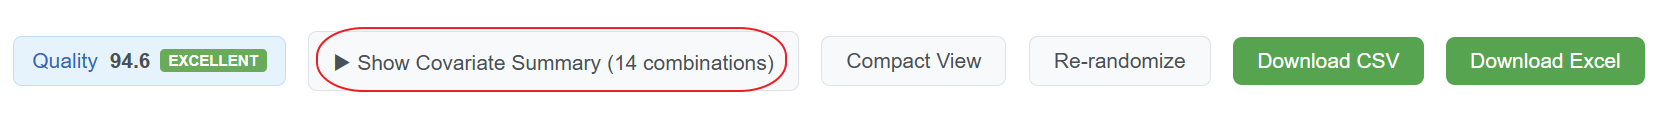
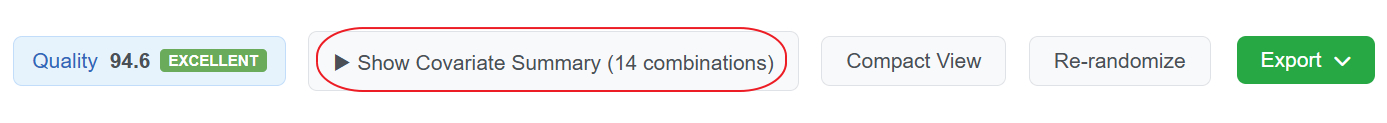
- Updated documentation and screenshot (new "Export" menu button) - Indicate if a file loaded is a layout file - Display app version

diff --git a/src/components/ConfigurationForm.tsx b/src/components/ConfigurationForm.tsx
@@ -4,6 +4,7 @@ import { RandomizationAlgorithm, getAlgorithmName, getAlgorithmDescription, getA
 interface ConfigurationFormProps {
   availableColumns: string[];
   selectedFileName: string;
+  isLayoutFile: boolean;
   selectedIdColumn: string;
   onIdColumnChange: (event: React.ChangeEvent<HTMLSelectElement>) => void;
   searches: any[];
@@ -34,6 +35,7 @@ interface ConfigurationFormProps {
 const ConfigurationForm: React.FC<ConfigurationFormProps> = ({
   availableColumns,
   selectedFileName,
+  isLayoutFile,
   selectedIdColumn,
   onIdColumnChange,
   searches,
@@ -126,8 +128,15 @@ const ConfigurationForm: React.FC<ConfigurationFormProps> = ({
       {/* Uploaded file name, shown above the configuration options */}
       {selectedFileName && (
         <div style={styles.uploadedFileBanner}>
-          <i className="fa-regular fa-file-lines" style={styles.uploadedFileIcon} aria-hidden="true"></i>
+          <i
+            className={isLayoutFile ? 'fa-regular fa-rectangle-list' : 'fa-regular fa-file-lines'}
+            style={styles.uploadedFileIcon}
+            aria-hidden="true"
+          ></i>
           <span style={styles.uploadedFileName}>{selectedFileName}</span>
+          {isLayoutFile && (
+            <span style={styles.layoutBadge}>Layout file</span>
+          )}
           {searches.length > 0 && (
             <span style={styles.uploadedFileCount}>({searches.length} samples)</span>
           )}
@@ -517,6 +526,15 @@ const styles = {
     fontSize: '12px',
     color: '#1976d2',
     fontStyle: 'italic',
+  },
+  layoutBadge: {
+    fontSize: '11px',
+    fontWeight: '600',
+    color: '#fff',
+    backgroundColor: '#1976d2',
+    padding: '2px 8px',
+    borderRadius: '10px',
+    whiteSpace: 'nowrap' as const,
   },
   compactColumn: {
     flex: 1,

diff --git a/src/App.tsx b/src/App.tsx
@@ -28,6 +28,7 @@ import { isDeveloperMode } from './utils/configs';
 import { buildSubjectGroups, validateSubjectGroups } from './algorithms/repeatedMeasuresDistribution';
 import SequenceExportWizard from './components/SequenceExportWizard';
 import ExportMenu from './components/ExportMenu';
+import packageJson from '../package.json';
 
 
 
@@ -41,6 +42,7 @@ const App: React.FC = () => {
     availableColumns,
     selectedIdColumn,
     selectedFileName,
+    isLayoutFile,
     uploadCounter,
     handleFileUpload,
     handleIdColumnChange,
@@ -776,6 +778,7 @@ const App: React.FC = () => {
         <ConfigurationForm
           availableColumns={availableColumns}
           selectedFileName={selectedFileName}
+          isLayoutFile={isLayoutFile}
           selectedIdColumn={selectedIdColumn}
           onIdColumnChange={handleIdColumnChangeWithReset}
           searches={searches}
@@ -1038,6 +1041,7 @@ const App: React.FC = () => {
               <i className="fa-regular fa-circle-question" style={{marginRight: '4px'}}></i> Quick Start Guide
             </a>
           </div>
+          <div style={styles.versionText}>Octopus v{packageJson.version}</div>
         </div>
 
       </div>
@@ -1219,6 +1223,12 @@ const styles = {
     transition: 'all 0.2s ease',
     cursor: 'pointer',
   } as React.CSSProperties,
+  versionText: {
+    marginTop: '10px',
+    textAlign: 'center' as const,
+    fontSize: '12px',
+    color: '#999',
+  },
 };
 
 export default App;

diff --git a/src/hooks/useFileUpload.ts b/src/hooks/useFileUpload.ts
@@ -19,6 +19,9 @@ export function useFileUpload() {
   const [selectedFileName, setSelectedFileName] = useState<string>('');
   const [searches, setSearches] = useState<SearchData[]>([]);
   const [uploadCounter, setUploadCounter] = useState<number>(0);
+  // True when the current file was loaded via Load Layout (a saved layout), rather than
+  // uploaded as a plain sample CSV. Lets the UI label the loaded file as a layout.
+  const [isLayoutFile, setIsLayoutFile] = useState<boolean>(false);
 
   const processSearchData = (data: any[], idColumn: string): SearchData[] => {
     return data
@@ -36,6 +39,7 @@ export function useFileUpload() {
     if (file) {
       setUploadCounter(c => c + 1);
       setSelectedFileName(file.name);
+      setIsLayoutFile(false);
       Papa.parse(file, {
         header: true,
         complete: (results) => {
@@ -88,6 +92,7 @@ export function useFileUpload() {
   ) => {
     setUploadCounter(c => c + 1);
     setSelectedFileName(fileName);
+    setIsLayoutFile(true);
     setAvailableColumns([idColumn, ...metadataColumns]);
     setSelectedIdColumn(idColumn);
     setSearches(loadedSearches);
@@ -110,6 +115,7 @@ export function useFileUpload() {
     availableColumns,
     selectedIdColumn,
     selectedFileName,
+    isLayoutFile,
     uploadCounter,
     handleFileUpload,
     handleIdColumnChange,

diff --git a/src/tests/e2e/happy-path.spec.ts b/src/tests/e2e/happy-path.spec.ts
@@ -20,6 +20,9 @@ test.describe('Happy Path Workflow', () => {
   });
 
   test('complete workflow from upload to export', async ({ page }) => {
+    // The app version is shown in the footer (format only, not a hardcoded number).
+    await expect(page.getByText(/^Octopus v\d+\.\d+\.\d+$/)).toBeVisible();
+
     // Step 1: Upload file
     const testFilePath = path.join(__dirname, '../../../test-data/trx-phase1b-small.csv');
     await page.locator('#file-upload').setInputFiles(testFilePath);
@@ -27,6 +30,8 @@ test.describe('Happy Path Workflow', () => {
     // Verify file is loaded
     await expect(page.getByText(/trx-phase1b-small\.csv/)).toBeVisible();
     await expect(page.getByText(/288 samples/)).toBeVisible();
+    // A plain sample CSV is not a layout file, so no layout badge appears.
+    await expect(page.getByText('Layout file')).toHaveCount(0);
 
     // Step 2: Configure settings - verify defaults and make selections
     await expect(page.locator('#idColumn')).toHaveValue('Sample ID');

diff --git a/src/tests/e2e/layout-roundtrip.spec.ts b/src/tests/e2e/layout-roundtrip.spec.ts
@@ -53,6 +53,8 @@ test.describe('Layout Round-Trip', () => {
 
     // Grid, covariate summary, and quality should reappear exactly as generated.
     await expect(page.getByText('Plate 1')).toBeVisible();
+    // The file-name banner labels a loaded layout as such.
+    await expect(page.getByText('Layout file')).toBeVisible();
     await expect(page.getByRole('button', { name: /Covariate Summary \(14 combinations\)/ })).toBeVisible();
     expect(NUM_COVARIATE_GROUPS).toBe(14);
     await expect(page.getByRole('button', { name: /Quality/ })).toBeVisible();

diff --git a/public/octopus_doc.md b/public/octopus_doc.md
@@ -63,7 +63,7 @@ Prepare a CSV file containing your sample metadata with:
 
 Click **Choose File** to select and import your CSV file.
 
-**Reproducing a saved layout instead:** If you previously saved a layout file (see **Save Layout** in Step 6), click **Load Layout** rather than Choose File to read it back. This restores the exact plate arrangement along with every setting that produced it (covariates, QC selection, plate size, colors, and more), so you do not need to reconfigure or regenerate anything. See "Save and Reproduce a Layout" under Step 6 for details.
+**Reproducing a saved layout instead:** If you previously saved a layout file (see **Export → Layout** in Step 6), click **Load Layout** rather than Choose File to read it back. This restores the exact plate arrangement along with every setting that produced it (covariates, QC selection, plate size, colors, and more), so you do not need to reconfigure or regenerate anything. See "Save and Reproduce a Layout" under Step 6 for details.
 
 ### Step 2: Configuration
 
@@ -255,7 +255,9 @@ You can drag samples between wells on the same plate or across plates to manuall
 
 ### Step 6: Export Your Results
 
-Once satisfied with the distribution, click **"Download CSV"** or **"Download Excel"** to save your plate assignments.
+The CSV, Excel, Layout, and Sequence actions are grouped under a single **Export** button above the plates. Open it and pick the option you want.
+
+Once satisfied with the distribution, open the **Export** menu and choose **CSV** or **Excel** to save your plate assignments.
 
 **CSV Export**: Includes all original sample data plus assigned plate numbers and well positions.
 
@@ -268,7 +270,7 @@ Once satisfied with the distribution, click **"Download CSV"** or **"Download Ex
 
 #### Save and Reproduce a Layout
 
-The regular CSV export records where each sample was placed, but not the choices behind that placement. To keep a record you can reproduce exactly, click **"Save Layout"**. This saves the finished layout together with the settings that produced it, as a single file named `<input_file_name>_octopus_layout.csv`. It is the most durable record of a run for an audit trail.
+The regular CSV export records where each sample was placed, but not the choices behind that placement. To keep a record you can reproduce exactly, open the **Export** menu and choose **Layout**. This saves the finished layout together with the settings that produced it, as a single file named `<input_file_name>_octopus_layout.csv`. It is the most durable record of a run for an audit trail.
 
 The file is plain CSV with two parts, so it still opens in any spreadsheet:
 - A short two-column options block at the top listing the settings (ID column, covariates, QC column and values, algorithm, plate size, subject column, and grouping constraint) and the covariate colors.
@@ -280,7 +282,7 @@ Because the file is plain CSV, you can open it in a spreadsheet and re-save it w
 
 ### Step 7: Export Injection Sequence (Optional)
 
-Once you are happy with your plate layouts, click **"Export Sequence"** to launch the Injection Sequence Export wizard. The wizard generates a CSV acquisition sequence in the Thermo Fisher Scientific format (`Bracket Type=4` header with columns *File Name, Path, Instrument Method, Position, Inj Vol*) that can be loaded directly into the instrument software.
+Once you are happy with your plate layouts, open the **Export** menu and choose **Sequence** to launch the Injection Sequence Export wizard. The wizard generates a CSV acquisition sequence in the Thermo Fisher Scientific format (`Bracket Type=4` header with columns *File Name, Path, Instrument Method, Position, Inj Vol*) that can be loaded directly into the instrument software.
 
 The wizard reads your finalized plate assignments and walks you through six steps.
 
@@ -448,7 +450,7 @@ When a grouping constraint (Same Row or Same Plate) is active, the quality asses
 
 7. **Choose the Right Subject Grouping Constraint**: The grouping constraint is typically determined by the experimental design — use Same Row when samples must be processed together in the same row, and Same Plate when they just need to be on the same plate. If your design allows either, Same Plate gives the algorithm more flexibility to optimize covariate balance across multiple plates.
 
-8. **Save a Layout for Your Records**: Once you are happy with a layout, use **Save Layout** to keep a single file that captures both the plate arrangement and the settings behind it. You can load it back at any time to reproduce the run exactly, which makes it a reliable record for an audit trail.
+8. **Save a Layout for Your Records**: Once you are happy with a layout, use **Export → Layout** to keep a single file that captures both the plate arrangement and the settings behind it. You can load it back at any time to reproduce the run exactly, which makes it a reliable record for an audit trail.
 
 ---
 

diff --git a/public/quick-start-guide.md b/public/quick-start-guide.md
@@ -24,7 +24,7 @@ The test files contain sample metadata from a study investigating low-dose X-ray
 1. Open Octopus
 2. Click "Choose File"
 3. Select your downloaded CSV file
-4. Wait for the file to load (sample count will appear)
+4. Wait for the file to load (the file name and sample count appear at the top of the options panel)
 
 ### Step 3: Configure Settings
 
@@ -100,23 +100,23 @@ Click the **"R"** button on any plate header to re-randomize just that plate whi
 ### Step 7: Export Results
 
 #### CSV Export
-Click **"Download CSV"** to get:
+Open the **Export** menu and choose **CSV** to get:
 - All original sample data
 - Assigned plate numbers
 - Well positions (e.g., A01, B05)
 
 #### Excel Export
-Click **"Download Excel"** to get:
+Open the **Export** menu and choose **Excel** to get:
 - Color-coded plates matching the visual display
 - Select which covariates to include
 - Formatted for easy printing and reference
 
 #### Save Layout (Reproducible Record)
-Click **"Save Layout"** to save the plate arrangement together with the settings that produced it, in a single CSV file. Later, click **"Load Layout"** (next to Choose File at the top) to read it back and reproduce the exact same layout, with all settings and colors restored. This is a durable record for an audit trail.
+Open the **Export** menu and choose **Layout** to save the plate arrangement together with the settings that produced it, in a single CSV file. Later, click **"Load Layout"** (next to Choose File at the top) to read it back and reproduce the exact same layout, with all settings and colors restored. This is a durable record for an audit trail.
 
 ### Step 8: Export Injection Sequence (Optional)
 
-If you want to export a Thermo Fisher Scientific instrument-ready acquisition sequence, click **"Export Sequence"** to launch the Injection Sequence Export wizard. The wizard walks you through six configuration steps and produces a CSV in the Thermo format with file names, folder paths, instrument methods, autosampler positions, and injection volumes.
+If you want to export a Thermo Fisher Scientific instrument-ready acquisition sequence, open the **Export** menu and choose **Sequence** to launch the Injection Sequence Export wizard. The wizard walks you through six configuration steps and produces a CSV in the Thermo format with file names, folder paths, instrument methods, autosampler positions, and injection volumes.
 
 For this test dataset, a typical configuration is:
 
@@ -244,9 +244,11 @@ Try these to see how they affect distribution:
 
 ### Exporting for Different Purposes
 
+All of these are in the **Export** menu above the plates:
+
 - **CSV**: Simple format for data analysis, import into other tools
 - **Excel**: Visual reference, color-coded for easy identification, good for lab use
-- **Save Layout**: A reproducible record of the run that you can load back later to recreate the exact same layout and settings
+- **Layout**: A reproducible record of the run that you can load back later to recreate the exact same layout and settings
 
 ## Need More Help?
 
